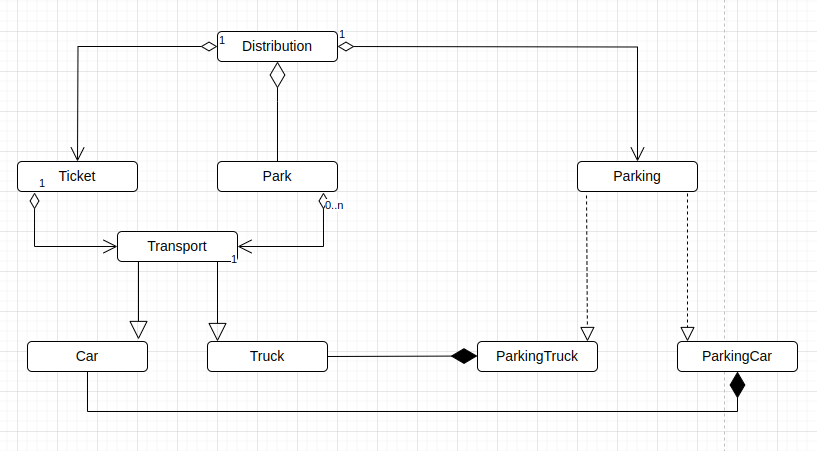
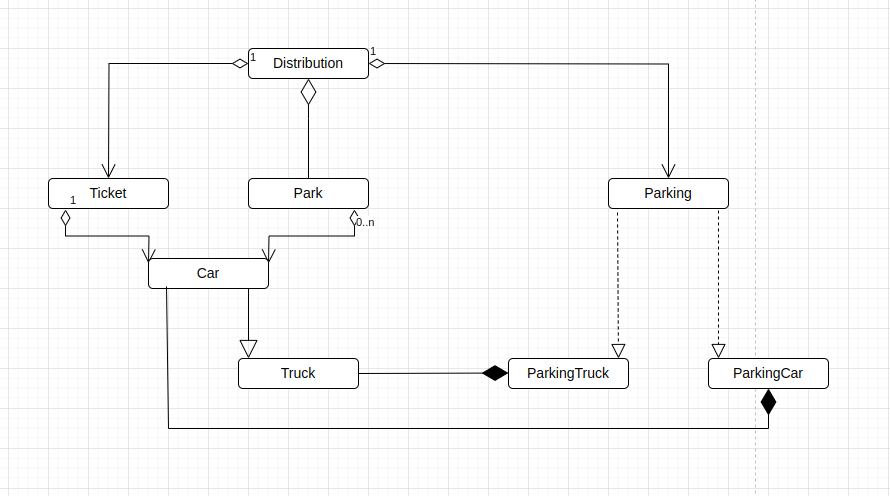
2. Парковка машин [#853 #525872] Часть 3.
3. Реализация кода.

diff --git a/src/test/java/ru/job4j/ood/lsp/cars/DistributionTest.java b/src/test/java/ru/job4j/ood/lsp/cars/DistributionTest.java
@@ -2,12 +2,10 @@ package ru.job4j.ood.lsp.cars;
 
 import org.junit.jupiter.api.BeforeAll;
 import org.junit.jupiter.api.BeforeEach;
-import org.junit.jupiter.api.Disabled;
 import org.junit.jupiter.api.Test;
 import ru.job4j.ood.lsp.cars.model.park.Park;
 import ru.job4j.ood.lsp.cars.model.park.Ticket;
 import ru.job4j.ood.lsp.cars.model.transport.Car;
-import ru.job4j.ood.lsp.cars.model.transport.Transport;
 import ru.job4j.ood.lsp.cars.model.transport.Truck;
 import ru.job4j.ood.lsp.cars.parking.Parking;
 import ru.job4j.ood.lsp.cars.parking.ParkingCar;
@@ -17,31 +15,30 @@ import java.util.Map;
 
 import static org.assertj.core.api.AssertionsForClassTypes.assertThat;
 
-@Disabled("Тесты не активны пока не будет создана реализация.")
 class DistributionTest {
 
-    private static Transport car;
-    private static Transport truck;
+    private static Car car;
+    private static Truck truck;
     private Park park;
 
     @BeforeAll
     public static void init() {
-        car = new Car(1);
+        car = new Car();
         truck = new Truck(2);
     }
 
     @BeforeEach
     public void initPark() {
-        Map<Transport, Boolean[]> places = Map.of(
-                car, new Boolean[4],
-                truck, new Boolean[4]
+        Map<Car, Boolean[]> places = Map.of(
+                car, new Boolean[] {false, false, false, false},
+                truck, new Boolean[] {false, false, false, false}
         );
         park = new Park(places);
     }
 
     @Test
     public void whenCarIsParkedIntoRightPlace() {
-        Parking currentCar = new ParkingCar(new Car(1));
+        Parking currentCar = new ParkingCar(car);
         Distribution distribution = new Distribution(park);
         Ticket actualParking = distribution.parked(currentCar);
         assertThat(actualParking.position()).isEqualTo(1);
@@ -52,7 +49,7 @@ class DistributionTest {
 
     @Test
     public void whenTruckIsParkedIntoTruckPlace() {
-        Parking currentTruck = new ParkingTruck(new Truck(2));
+        Parking currentTruck = new ParkingTruck(new Truck(2), car);
         Distribution distribution = new Distribution(park);
         Ticket actualParking = distribution.parked(currentTruck);
         assertThat(actualParking.position()).isEqualTo(1);
@@ -64,7 +61,7 @@ class DistributionTest {
 
     @Test
     public void whenVeryBigTruckIsParkedIntoCarPlace() {
-        Parking currentTruck = new ParkingTruck(new Truck(3));
+        Parking currentTruck = new ParkingTruck(new Truck(3), car);
         Distribution distribution = new Distribution(park);
         Ticket actualParking = distribution.parked(currentTruck);
         assertThat(actualParking.position()).isEqualTo(1);
@@ -77,7 +74,7 @@ class DistributionTest {
 
     @Test
     public void whenVacatedSuccessful() {
-        Parking currentCar = new ParkingCar(new Car(1));
+        Parking currentCar = new ParkingCar(car);
         Distribution distribution = new Distribution(park);
         Ticket actualParking = distribution.parked(currentCar);
         distribution.vacated(actualParking);
@@ -87,8 +84,8 @@ class DistributionTest {
 
     @Test
     public void whenVeryBigTruckIsNotParkedIntoCarPlace() {
-        Parking currentCar = new ParkingCar(new Car(1));
-        Parking currentTruck = new ParkingTruck(new Truck(3));
+        Parking currentCar = new ParkingCar(car);
+        Parking currentTruck = new ParkingTruck(new Truck(3), car);
         Distribution distribution = new Distribution(park);
         Ticket parkingCar1 = distribution.parked(currentCar);
         Ticket parkingCar2 = distribution.parked(currentCar);

diff --git a/src/test/java/ru/job4j/ood/lsp/cars/parking/ParkingTruckTest.java b/src/test/java/ru/job4j/ood/lsp/cars/parking/ParkingTruckTest.java
@@ -1,0 +1,50 @@
+package ru.job4j.ood.lsp.cars.parking;
+import org.junit.jupiter.api.Test;
+import ru.job4j.ood.lsp.cars.model.park.Park;
+import ru.job4j.ood.lsp.cars.model.park.Ticket;
+import ru.job4j.ood.lsp.cars.model.transport.Car;
+import ru.job4j.ood.lsp.cars.model.transport.Truck;
+
+import java.util.Map;
+
+import static org.assertj.core.api.AssertionsForClassTypes.assertThat;
+
+class ParkingTruckTest {
+
+    @Test
+    public void whenTrackInTruckPlace() {
+        Car car = new Car();
+        Car truck = new Truck(2);
+        Park park = new Park(Map.of(truck, new Boolean[] {false, false}));
+        Parking currentTruck = new ParkingTruck(new Truck(2), car);
+        Ticket actual = currentTruck.parked(park);
+        assertThat(actual).isNotNull();
+        assertThat(actual.position()).isEqualTo(1);
+        assertThat(actual.transport()).isEqualTo(car);
+        assertThat(park.places().get(truck)[0]).isTrue();
+        assertThat(park.places().get(truck)[1]).isTrue();
+    }
+
+    @Test
+    public void whenTruckInCarPlace() {
+        Car car = new Car();
+        Park park = new Park(Map.of(car, new Boolean[] {false, false}));
+        Parking truck = new ParkingTruck(new Truck(2), car);
+        Ticket actual = truck.parked(park);
+        assertThat(actual).isNotNull();
+        assertThat(actual.position()).isEqualTo(1);
+        assertThat(actual.transport()).isEqualTo(car);
+        assertThat(park.places().get(car)[0]).isTrue();
+        assertThat(park.places().get(car)[1]).isTrue();
+    }
+
+    @Test
+    public void whenNoPlaceToTruck() {
+        Car car = new Car();
+        Park park = new Park(Map.of(car, new Boolean[] {false}));
+        Parking truck = new ParkingTruck(new Truck(2), car);
+        Ticket actual = truck.parked(park);
+        assertThat(actual).isNull();
+        assertThat(park.places().get(car)[0]).isFalse();
+    }
+}

diff --git a/src/test/java/ru/job4j/ood/lsp/cars/parking/ParkingCarTest.java b/src/test/java/ru/job4j/ood/lsp/cars/parking/ParkingCarTest.java
@@ -1,0 +1,38 @@
+package ru.job4j.ood.lsp.cars.parking;
+
+import org.junit.jupiter.api.Test;
+import ru.job4j.ood.lsp.cars.model.park.Park;
+import ru.job4j.ood.lsp.cars.model.park.Ticket;
+import ru.job4j.ood.lsp.cars.model.transport.Car;
+import ru.job4j.ood.lsp.cars.model.transport.Truck;
+
+import java.util.Map;
+
+import static org.assertj.core.api.AssertionsForClassTypes.assertThat;
+
+class ParkingCarTest {
+    @Test
+    public void whenCarIsParked() {
+        Car car = new Car();
+        Park park = new Park(Map.of(car, new Boolean[] {false, false}));
+        Parking currentCar = new ParkingCar(new Car());
+        Ticket actual = currentCar.parked(park);
+        assertThat(actual).isNotNull();
+        assertThat(actual.position()).isEqualTo(1);
+        assertThat(actual.transport()).isEqualTo(new Car());
+        assertThat(park.places().get(car)[0]).isTrue();
+        assertThat(park.places().get(car)[1]).isFalse();
+    }
+
+    @Test
+    public void whenCarIsNotParked() {
+        Car truck = new Truck(2);
+        Park park = new Park(Map.of(truck, new Boolean[] {false, false, false}));
+        Parking car = new ParkingCar(new Car());
+        Ticket actual = car.parked(park);
+        assertThat(actual).isNull();
+        assertThat(park.places().get(truck)[0]).isFalse();
+        assertThat(park.places().get(truck)[1]).isFalse();
+        assertThat(park.places().get(truck)[2]).isFalse();
+    }
+}

diff --git a/src/main/java/ru/job4j/ood/lsp/cars/parking/ParkingTruck.java b/src/main/java/ru/job4j/ood/lsp/cars/parking/ParkingTruck.java
@@ -1,26 +1,26 @@
 package ru.job4j.ood.lsp.cars.parking;
 
 import ru.job4j.ood.lsp.cars.model.park.Park;
+import ru.job4j.ood.lsp.cars.model.park.Ticket;
+import ru.job4j.ood.lsp.cars.model.transport.Car;
 import ru.job4j.ood.lsp.cars.model.transport.Truck;
 
-public class ParkingTruck implements Parking {
-
-    private Truck truck;
-
-    public ParkingTruck(Truck truck) {
-        this.truck = truck;
-    }
-
-    public Truck getTruck() {
-        return truck;
-    }
-
-    public void setTruck(Truck truck) {
-        this.truck = truck;
-    }
+public record ParkingTruck(Truck truck, Car car) implements Parking {
 
     @Override
-    public boolean parking(Park park) {
-        return false;
+    public Ticket parked(Park park) {
+        Boolean[] places = park.places().get(truck);
+        int index = getIndex(places, truck);
+        if (index == -1) {
+            places = park.places().get(car);
+            index = getIndex(places, truck);
+        }
+        if (index != -1) {
+            for (int i = index; i < truck.getSize(); i++) {
+                places[i] = true;
+            }
+            return new Ticket(car, index + 1);
+        }
+        return null;
     }
 }

diff --git a/src/main/java/ru/job4j/ood/lsp/cars/parking/Parking.java b/src/main/java/ru/job4j/ood/lsp/cars/parking/Parking.java
@@ -1,7 +1,30 @@
 package ru.job4j.ood.lsp.cars.parking;
 
 import ru.job4j.ood.lsp.cars.model.park.Park;
+import ru.job4j.ood.lsp.cars.model.park.Ticket;
+import ru.job4j.ood.lsp.cars.model.transport.Car;
 
 public interface Parking {
-    boolean parking(Park park);
+    Ticket parked(Park park);
+
+    default int getIndex(Boolean[] places, Car transport) {
+        if (places != null && places.length > 0) {
+            int left = 0;
+            int right = 0;
+            int size = transport.getSize();
+            while (size <= places.length - left) {
+                if (!places[right]) {
+                    if (right - left == size - 1) {
+                        return left;
+                    }
+                    right++;
+                } else {
+                    left = right;
+                    right++;
+                    left++;
+                }
+            }
+        }
+        return -1;
+    }
 }

diff --git a/src/main/java/ru/job4j/ood/lsp/cars/parking/ParkingCar.java b/src/main/java/ru/job4j/ood/lsp/cars/parking/ParkingCar.java
@@ -1,25 +1,18 @@
 package ru.job4j.ood.lsp.cars.parking;
 import ru.job4j.ood.lsp.cars.model.park.Park;
+import ru.job4j.ood.lsp.cars.model.park.Ticket;
 import ru.job4j.ood.lsp.cars.model.transport.Car;
 
-public class ParkingCar implements Parking {
-
-    private Car car;
-
-    public ParkingCar(Car car) {
-        this.car = car;
-    }
-
-    public Car getCar() {
-        return car;
-    }
-
-    public void setCar(Car car) {
-        this.car = car;
-    }
+public record ParkingCar(Car car) implements Parking {
 
     @Override
-    public boolean parking(Park park) {
-        return false;
+    public Ticket parked(Park park) {
+        Boolean[] places = park.places().get(car);
+        int index = getIndex(places, car);
+        if (index > -1) {
+            places[index] = true;
+            return new Ticket(car, index + 1);
+        }
+        return null;
     }
 }

diff --git a/src/main/java/ru/job4j/ood/lsp/cars/model/transport/Car.java b/src/main/java/ru/job4j/ood/lsp/cars/model/transport/Car.java
@@ -1,7 +1,31 @@
 package ru.job4j.ood.lsp.cars.model.transport;
 
-public class Car extends Transport {
-    public Car(int size) {
-        super(size);
+import java.util.Objects;
+
+public class Car {
+    private int size = 1;
+
+    public int getSize() {
+        return size;
+    }
+
+    public void setSize(int size) {
+        this.size = size;
+    }
+
+    @Override
+    public boolean equals(Object object) {
+        if (this == object) {
+            return true;
+        }
+        if (!(object instanceof Car car)) {
+            return false;
+        }
+        return size == car.size;
+    }
+
+    @Override
+    public int hashCode() {
+        return Objects.hash(size);
     }
 }

diff --git a/src/main/java/ru/job4j/ood/lsp/cars/Distribution.java b/src/main/java/ru/job4j/ood/lsp/cars/Distribution.java
@@ -13,9 +13,13 @@ public class Distribution {
     }
 
     public Ticket parked(Parking parking) {
-        return null;
+        return parking.parked(park);
     }
 
     public void vacated(Ticket ticket) {
+        Boolean[] places = park.places().get(ticket.transport());
+        for (int i = ticket.position() - 1; i < ticket.transport().getSize(); i++) {
+            places[i] = false;
+        }
     }
 }

diff --git a/src/main/java/ru/job4j/ood/lsp/cars/model/park/Park.java b/src/main/java/ru/job4j/ood/lsp/cars/model/park/Park.java
@@ -1,8 +1,8 @@
 package ru.job4j.ood.lsp.cars.model.park;
 
-import ru.job4j.ood.lsp.cars.model.transport.Transport;
+import ru.job4j.ood.lsp.cars.model.transport.Car;
 
 import java.util.Map;
 
-public record Park(Map<Transport, Boolean[]> places) {
+public record Park(Map<Car, Boolean[]> places) {
 }

diff --git a/src/main/java/ru/job4j/ood/lsp/cars/model/park/Ticket.java b/src/main/java/ru/job4j/ood/lsp/cars/model/park/Ticket.java
@@ -1,6 +1,6 @@
 package ru.job4j.ood.lsp.cars.model.park;
 
-import ru.job4j.ood.lsp.cars.model.transport.Transport;
+import ru.job4j.ood.lsp.cars.model.transport.Car;
 
-public record Ticket(Transport transport, int position) {
+public record Ticket(Car transport, int position) {
 }

diff --git a/src/main/java/ru/job4j/ood/lsp/cars/model/transport/Truck.java b/src/main/java/ru/job4j/ood/lsp/cars/model/transport/Truck.java
@@ -1,7 +1,7 @@
 package ru.job4j.ood.lsp.cars.model.transport;
 
-public class Truck extends Transport {
+public class Truck extends Car {
     public Truck(int size) {
-        super(size);
+        this.setSize(size);
     }
 }
